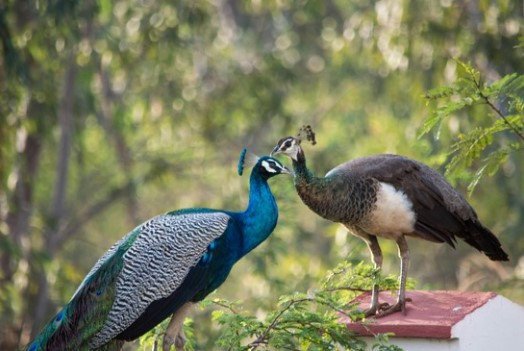
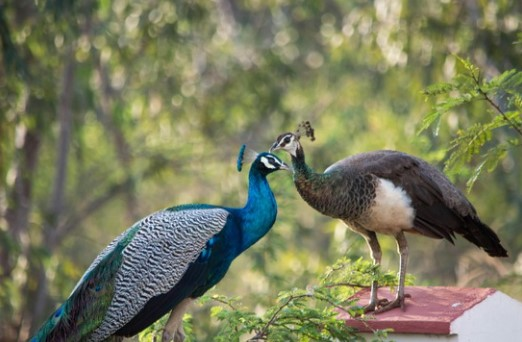
Fixed peafowl image/edited the paragraph.

diff --git a/peacock.html b/peacock.html
@@ -13,7 +13,7 @@ Task: Create a zoo with 4 animals using html and css
     </head>
     <body>
         <h1>Pefowl : Peacock & Peahen</h1>
-        <img src="img/peahen.jpg" alt="Peacock & Peahen" width="300" height="200">
+        <img src="img/peahen.jpeg" alt="Peacock & Peahen" width="300" height="200">
         <figcaption>Peacock & Peahen</figcaption>
         <p>
             Peacocks are one of the most beautiful birds, known for the vibrant, colorful tail feathers of the males, which they fan out and display to attract mates. 
